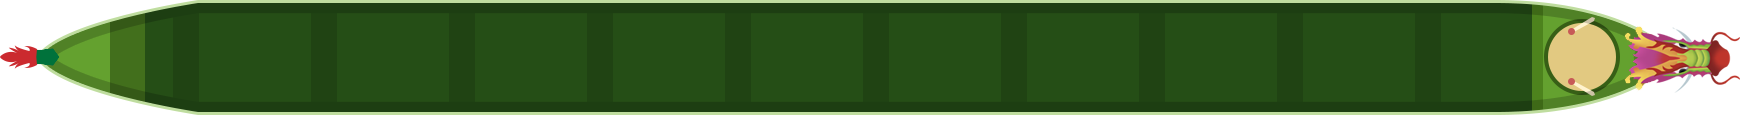
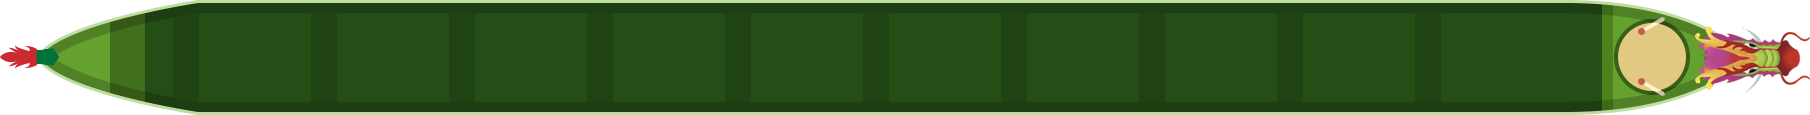
分组调整为7*22

diff --git a/src/core/member.js b/src/core/member.js
@@ -6,21 +6,21 @@ export type Member = { name: string, gender: 'male' | 'female', type: any };
 export const members: Readonly<Member[][]> = [
     [
         ...new Array(60).fill().map((_, index) => ({ name: `其它${`0${index}`.slice(-2)}`, gender: 'male' })),
-        ...new Array(30).fill().map((_, index) => ({ name: `其它${60 + index}`, gender: 'female' })),
+        ...new Array(28).fill().map((_, index) => ({ name: `其它${60 + index}`, gender: 'female' })),
     ].map(member => ({ ...member, type: '其它' })),
     [
         ...new Array(30).fill().map((_, index) => ({ name: `美术${`0${index}`.slice(-2)}`, gender: 'male' })),
-        ...new Array(30).fill().map((_, index) => ({ name: `美术${30 + index}`, gender: 'female' })),
+        ...new Array(28).fill().map((_, index) => ({ name: `美术${30 + index}`, gender: 'female' })),
     ].map(member => ({ ...member, type: '美术' })),
     [
-        ...new Array(8).fill().map((_, index) => ({ name: `特殊0${index}`, gender: 'male' })),
-        ...new Array(2).fill().map((_, index) => ({ name: `特殊${`0${8 + index}`.slice(-2)}`, gender: 'female' })),
+        ...new Array(6).fill().map((_, index) => ({ name: `特殊0${index}`, gender: 'male' })),
+        ...new Array(2).fill().map((_, index) => ({ name: `特殊${`0${6 + index}`.slice(-2)}`, gender: 'female' })),
     ].map(member => ({ ...member, type: '特殊' })),
 ];
 
 const femaleNum = (group: Member[]) => group.reduce((num, { gender }) => gender === 'female' ? num + 1 : num, 0);
 
-export const divideGroup = (members: Readonly<Member[][]>, size: number = 8) => {
+export const divideGroup = (members: Readonly<Member[][]>, size: number = 7) => {
     const groups = members.map(members => shuffle(members))
         .reduce((result, members) => [...result, ...members], [])
         .reduce(

diff --git a/src/core/shoot.js b/src/core/shoot.js
@@ -3,12 +3,12 @@ import { Subject, from, interval } from 'rxjs';
 import { shuffle } from '../core/collection';
 import { zip, delay, scan } from 'rxjs/operators';
 
-export const boats: { position: [number, number] }[] = new Array(8).fill().map((_, index) => ({
-    position: [30, 27.5 + index * 130],
+export const boats: { position: [number, number] }[] = new Array(7).fill().map((_, index) => ({
+    position: [10, 16 + (152 - 115) / 2 + index * 152],
 }));
 
-const seats: { position: [number, number] }[] = new Array(20).fill().map((_, index) => ({
-    position: [150 + 140 * (index % 10), (index / 10 | 0) === 0 ? 10 : 60],
+const seats: { position: [number, number] }[] = new Array(22).fill().map((_, index) => ({
+    position: [135 + 137 * (index % 11), (index / 11 | 0) === 0 ? 6 : 64],
 }));
 
 export const calcPosition = (boat: number, seat: number) => {

diff --git a/src/game/Scene0/index.css b/src/game/Scene0/index.css
@@ -2,7 +2,7 @@
     position: absolute;
     white-space: nowrap;
     color: #fff;
-    right: 280px;
+    right: 230px;
     height: 110px;
     line-height: 110px;
     font-size: 36px;
